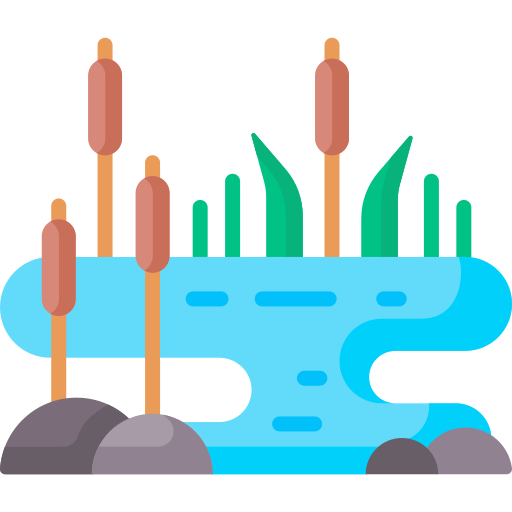
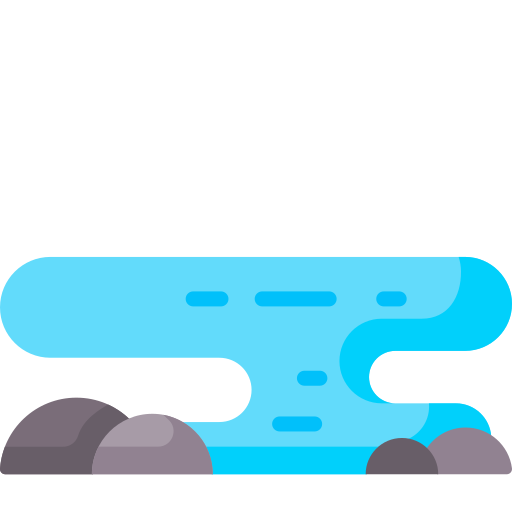
Pond improvement, bugfix

diff --git a/src/Layouts/GardenArea/GardenArea.tsx b/src/Layouts/GardenArea/GardenArea.tsx
@@ -4,10 +4,11 @@ import { Card, Flex, SimpleGrid, Image, Group } from "@mantine/core";
 
 import bench from "../../Assets/Other/bench.png";
 import marsh from "../../Assets/Other/marsh.png";
+import reeds from "../../Assets/Other/reeds.png";
 import scarecrow from "../../Assets/Other/scarecrow.png";
 import shovel from "../../Assets/Other/shovel.png";
 import { Slot } from "../../Components/Slot/Slot";
-import { DEFAULT_GARDEN_SLOTS } from "../../Shared/GardenUtils";
+import { DEFAULT_GARDEN_SLOTS, GARDEN_FIELD_IDENTIFIER } from "../../Shared/GardenUtils";
 import { TARGET_AREAS } from "../../Shared/TargetAreas";
 import { Garden } from "../../Shared/Types/GardenType";
 import "./GardenArea.css";
@@ -36,7 +37,7 @@ const LeftSection = ({ garden, findItemInSlotBySlotId }: SectionProps) => {
                     gardenId={garden.gardenId}
                 />
             </Group>
-            <Group justify="center" gap="xl" mt={8} ml={-5}>
+            <Group justify="center" gap="xl" ml={-15}>
                 <Slot
                     slotId={DEFAULT_GARDEN_SLOTS.SL2}
                     itemId={findItemInSlotBySlotId(DEFAULT_GARDEN_SLOTS.SL2)}
@@ -54,11 +55,22 @@ const LeftSection = ({ garden, findItemInSlotBySlotId }: SectionProps) => {
                     gardenId={garden.gardenId}
                 />
             </Group>
-            <Image className="marsh" radius="md" h={300} w={300} src={marsh} />
-            <div className="marsh-slot">
+            <Image className="reeds" radius="md" h={70} w={70} src={reeds} />
+            <Image className="marsh" radius="md" h={400} w={400} src={marsh} />
+            <div className="marsh-slot1">
                 <Slot
                     slotId={DEFAULT_GARDEN_SLOTS.SL4}
                     itemId={findItemInSlotBySlotId(DEFAULT_GARDEN_SLOTS.SL4)}
+                    size={48}
+                    extraRewardSlot={true}
+                    target={TARGET_AREAS.GARDEN}
+                    gardenId={garden.gardenId}
+                />
+            </div>
+            <div className="marsh-slot2">
+                <Slot
+                    slotId={DEFAULT_GARDEN_SLOTS.SL5}
+                    itemId={findItemInSlotBySlotId(DEFAULT_GARDEN_SLOTS.SL5)}
                     size={48}
                     extraRewardSlot={true}
                     target={TARGET_AREAS.GARDEN}
@@ -74,6 +86,7 @@ const MiddleSection = ({ garden, findItemInSlotBySlotId }: SectionProps) => {
         <div className="middle-section">
             <SimpleGrid cols={6} spacing="xs" verticalSpacing="xs">
                 {Object.keys(garden.slots)
+                    .filter((slotId) => slotId.includes(GARDEN_FIELD_IDENTIFIER))
                     .sort()
                     .map((slotId) => {
                         return (

diff --git a/src/Shared/GardenUtils.ts b/src/Shared/GardenUtils.ts
@@ -1,33 +1,36 @@
+export const GARDEN_FIELD_IDENTIFIER = "sg";
+
 export const DEFAULT_GARDEN_SLOTS = {
-    SG1: "sg1",
-    SG2: "sg2",
-    SG3: "sg3",
-    SG4: "sg4",
-    SG5: "sg5",
-    SG6: "sg6",
-    SG7: "sg7",
-    SG8: "sg8",
-    SG9: "sg9",
-    SG10: "sg10",
-    SG11: "sg11",
-    SG12: "sg12",
-    SG13: "sg13",
-    SG14: "sg14",
-    SG15: "sg15",
-    SG16: "sg16",
-    SG17: "sg17",
-    SG18: "sg18",
-    SG19: "sg19",
-    SG20: "sg20",
-    SG21: "sg21",
-    SG22: "sg22",
-    SG23: "sg23",
-    SG24: "sg24",
+    SG1: `${GARDEN_FIELD_IDENTIFIER}1`,
+    SG2: `${GARDEN_FIELD_IDENTIFIER}2`,
+    SG3: `${GARDEN_FIELD_IDENTIFIER}3`,
+    SG4: `${GARDEN_FIELD_IDENTIFIER}4`,
+    SG5: `${GARDEN_FIELD_IDENTIFIER}5`,
+    SG6: `${GARDEN_FIELD_IDENTIFIER}6`,
+    SG7: `${GARDEN_FIELD_IDENTIFIER}7`,
+    SG8: `${GARDEN_FIELD_IDENTIFIER}8`,
+    SG9: `${GARDEN_FIELD_IDENTIFIER}9`,
+    SG10: `${GARDEN_FIELD_IDENTIFIER}10`,
+    SG11: `${GARDEN_FIELD_IDENTIFIER}11`,
+    SG12: `${GARDEN_FIELD_IDENTIFIER}12`,
+    SG13: `${GARDEN_FIELD_IDENTIFIER}13`,
+    SG14: `${GARDEN_FIELD_IDENTIFIER}14`,
+    SG15: `${GARDEN_FIELD_IDENTIFIER}15`,
+    SG16: `${GARDEN_FIELD_IDENTIFIER}16`,
+    SG17: `${GARDEN_FIELD_IDENTIFIER}17`,
+    SG18: `${GARDEN_FIELD_IDENTIFIER}18`,
+    SG19: `${GARDEN_FIELD_IDENTIFIER}19`,
+    SG20: `${GARDEN_FIELD_IDENTIFIER}20`,
+    SG21: `${GARDEN_FIELD_IDENTIFIER}21`,
+    SG22: `${GARDEN_FIELD_IDENTIFIER}22`,
+    SG23: `${GARDEN_FIELD_IDENTIFIER}23`,
+    SG24: `${GARDEN_FIELD_IDENTIFIER}24`,
 
     SL1: "sl1",
     SL2: "sl2",
     SL3: "sl3",
     SL4: "sl4",
+    SL5: "sl5",
 };
 
 export const INIT_GARDEN_SLOT_VALUES = {
@@ -59,4 +62,5 @@ export const INIT_GARDEN_SLOT_VALUES = {
     [DEFAULT_GARDEN_SLOTS.SL2]: null,
     [DEFAULT_GARDEN_SLOTS.SL3]: null,
     [DEFAULT_GARDEN_SLOTS.SL4]: null,
+    [DEFAULT_GARDEN_SLOTS.SL5]: null,
 };

diff --git a/src/Layouts/GardenArea/GardenArea.css b/src/Layouts/GardenArea/GardenArea.css
@@ -50,13 +50,26 @@
 
 .marsh {
     position: absolute;
-    left: -95px;
-    bottom: -45px;
+    left: -178px;
+    bottom: -65px;
     pointer-events: none;
 }
 
-.marsh-slot {
+.marsh-slot1 {
     position: absolute;
-    bottom: 48px;
-    left: 50px;
+    bottom: 55px;
+    left: 4px;
+}
+
+.marsh-slot2 {
+    position: absolute;
+    bottom: -2px;
+    left: 91px;
+}
+
+.reeds {
+    position: absolute;
+    bottom: 128px;
+    left: 75px;
+    pointer-events: none;
 }
